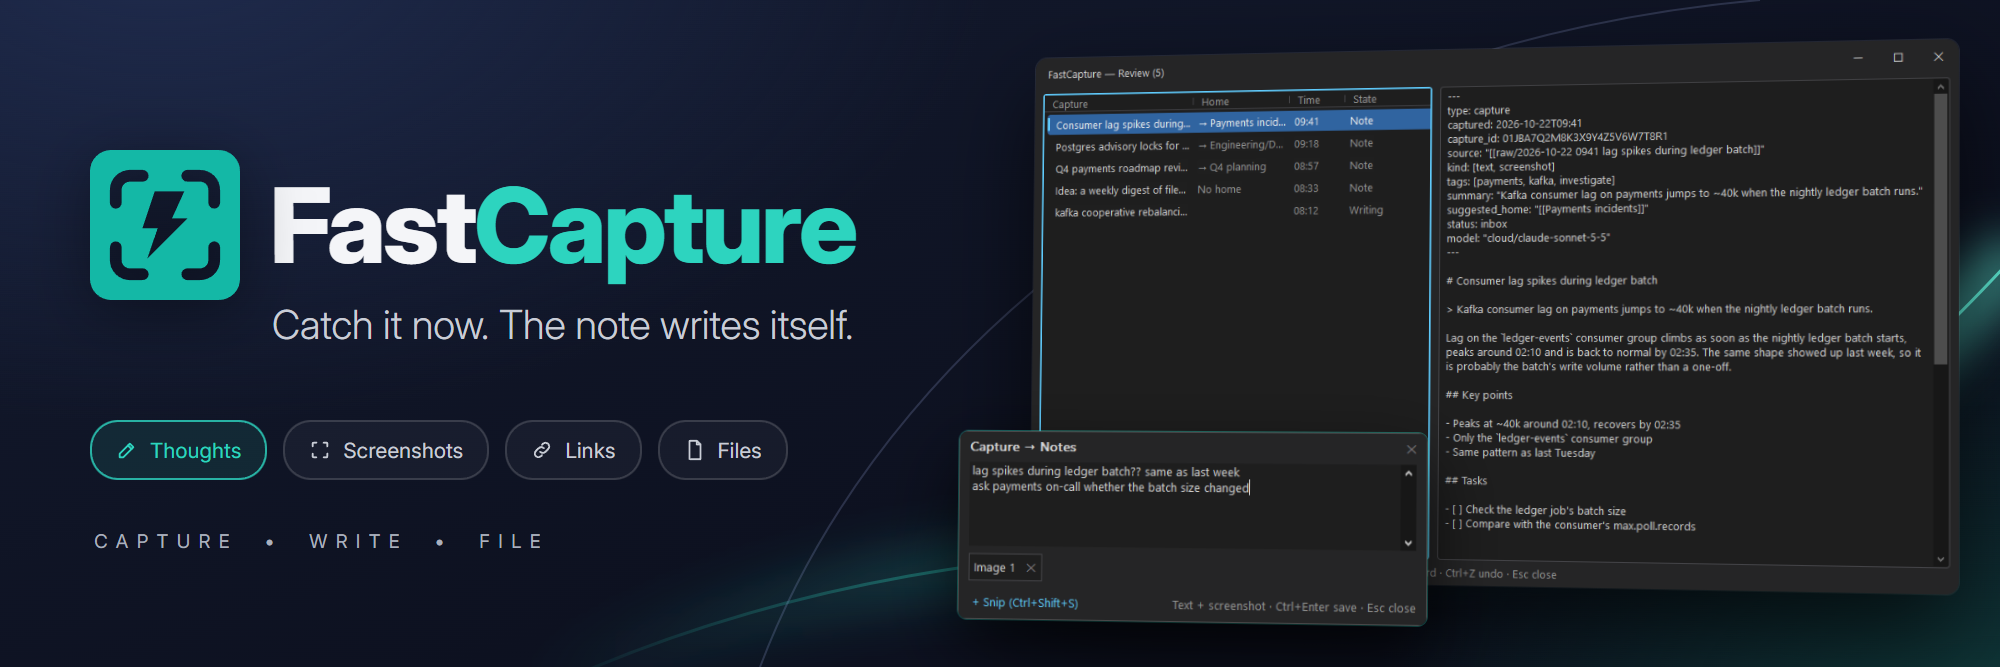
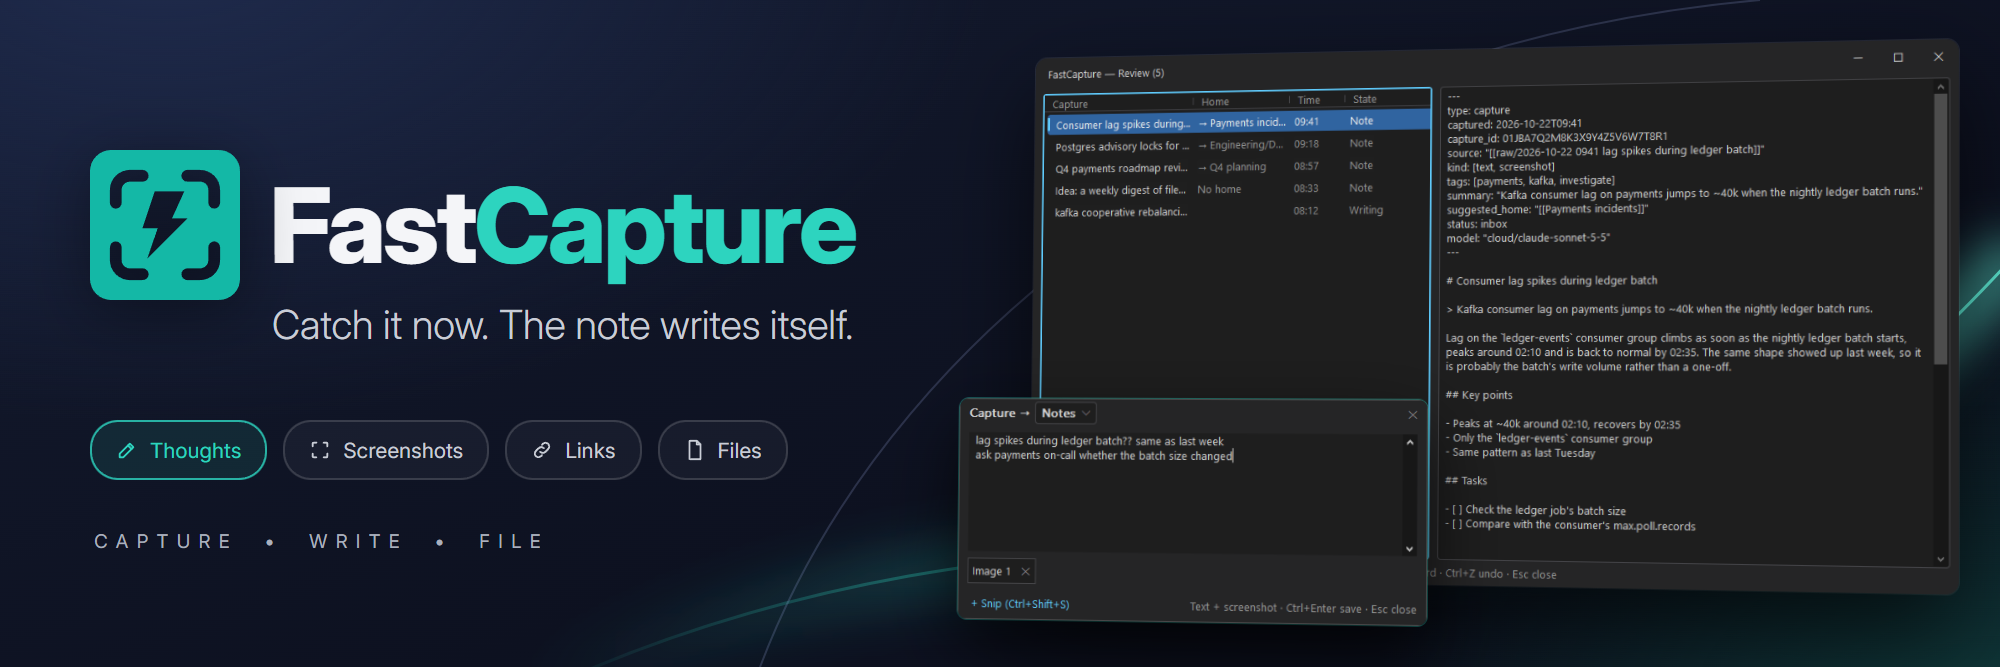
FastCapture 0.1.2

Changed region(s): [[0.465, 0.5697, 0.62, 0.7496], [0.465, 0.8396, 0.558, 0.9295], [0.589, 0.8996, 0.713, 0.9295]]

diff --git a/README.md b/README.md
@@ -58,7 +58,7 @@ Requires Windows 10 1809 or later, or Windows 11.
 
 ## Capture it before it's gone
 
-<img src="docs/images/capture.png" alt="The capture box with two lines of text and a screenshot attached" width="520">
+<img src="docs/images/capture.png" alt="The capture box with two lines of text and a screenshot attached, sent to the Notes notebook" width="560">
 
 | Key or action | What it does |
 |---|---|
@@ -78,12 +78,14 @@ Type what the capture is about, then add what you want to keep with it:
 | **Ctrl+Shift+V** | Attaches the clipboard's image even when it also holds text |
 | **Ctrl+Shift+S** or **+ Snip** | Hides the box and starts Windows' snipping tool; the snip is attached when the box comes back |
 | Drop files on the box | Attaches them (copied, never moved; files over 20 MB ask first) |
-| **Ctrl+N** | Sends this capture to another recent notebook |
+| **Ctrl+N** or the notebook's name in the title | Sends this capture to a recent notebook, or to any folder with **Other folder…** |
 | **Tab** | Moves to the attachments: arrows to choose, **Delete** to remove |
 | **Ctrl+Enter** | Saves and closes |
 | **Esc** | Closes, keeping what you wrote as a draft for next time |
 
 A line holding only an `http(s)://` address is recorded as a link. The footer shows what the capture holds ("Text + screenshot"). When pasted text came from a web page, the browser's note of that page is kept with it (`source_url`). The clipboard hotkey pastes the same way.
+
+The title says where the capture goes ("Capture → Notes"). The notebook chosen there is for this capture only; Settings' notebook stays as it is. A folder picked with **Other folder…** joins the recent notebooks once a capture is filed there.
 
 Drag the box's edges or corners to resize it; it opens at the size you last left it. As you type, common English typos are fixed when you finish the word ("teh " becomes "the "); **Ctrl+Z** right after a fix puts back what you typed. Only words Windows' spell checker is sure of are changed, and never pasted text, web addresses, paths or #tags. Settings › **Fix common typos as I type (English)** turns it off.
 
@@ -259,9 +261,11 @@ Everything in Settings is saved to `%AppData%\FastCapture\fastcapture.ini`, one 
 | `capture_hotkey` | `Ctrl+Alt+C` | Ctrl, Shift, Alt and Win with a letter, digit, F1–F24 or a named key (Space, Enter, Insert…). Empty turns it off. |
 | `clipboard_hotkey` | (none) | Captures the clipboard with no box |
 | `capture_source` | `false` | Records the title of the window in front when you capture. Off by default because titles can hold private things. |
+| `autocorrect` | `true` | Fixes common English typos as you type in the capture box |
 | `start_at_sign_in` | `true` | Starts FastCapture when you sign in |
 | `theme` | `system` | `system`, `light` or `dark` |
-| `recent_notebook` | | One line per notebook offered by Ctrl+N |
+| `recent_notebook` | | One line per notebook offered by the capture box's notebook menu |
+| `capture_width`, `capture_height` | | The capture box's size, written when you resize it |
 | `mode` | (none) | `local` or `cloud`, set by Settings |
 | `local_endpoint`, `local_model` | | The local server's address and model |
 | `backend` | `claude` | Cloud's provider: `claude`, `openai` (any OpenAI-compatible API), `claude_code` or `copilot` |
